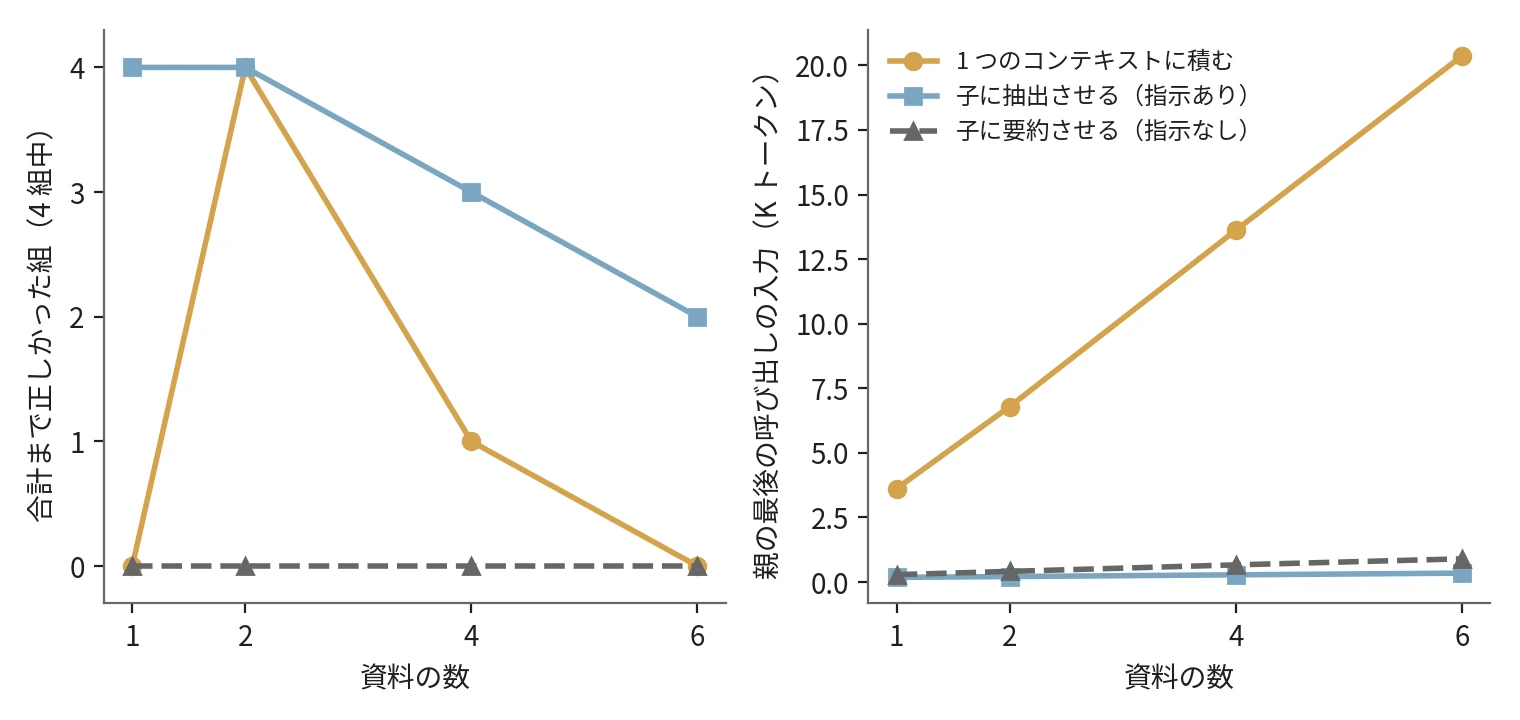
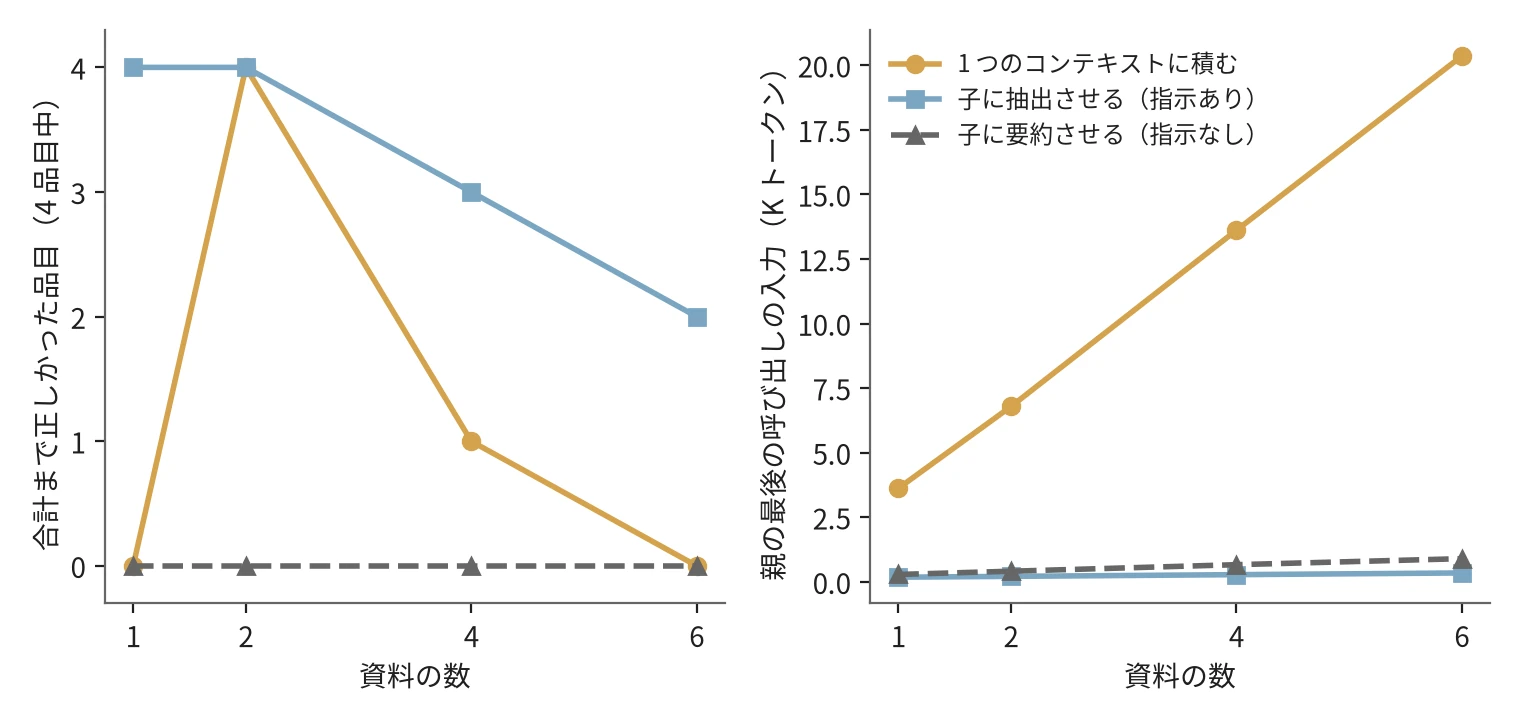
docs(notes): replace the bare 組 in the subagent note and its figure
Claude-Session: https://claude.ai/code/session_01YUxqeZKPbCLCF82LgM8vBK

diff --git a/content/notes/generative-ai/subagent/figures.py b/content/notes/generative-ai/subagent/figures.py
@@ -198,7 +198,7 @@ def results_figure():
                      marker=m, lw=2, label=label)
         c = [sum(ctx[(mode, k)]) / len(ctx[(mode, k)]) / 1000 for k in ks]
         axes[1].plot(ks, c, color=color, ls=ls, marker=m, lw=2, label=label)
-    axes[0].set_ylabel("合計まで正しかった組（4 組中）")
+    axes[0].set_ylabel("合計まで正しかった品目（4 品目中）")
     axes[0].set_ylim(-0.3, 4.3)
     axes[0].set_yticks(range(5))
     axes[0].set_xticks(ks)

diff --git a/content/notes/generative-ai/subagent/index.md b/content/notes/generative-ai/subagent/index.md
@@ -128,9 +128,9 @@ r = chat([{"role": "system", "content": PARENT_SYSTEM}, {"role": "user", "conten
 
 `chat()` は、Ollama の `/api/chat` を 1 回呼び、入力と出力のトークン数と時間を返す関数です。どの呼び出しにも先頭に別の ID を入れ、前の呼び出しの[プロンプトキャッシュ](../kv-cache/)を使わせていません。
 
-以下が、4 組の平均と件数です。左は最後の行の合計まで正しく答えた組の数、右は親が最後に答えを書いた呼び出しの入力の長さです。
+以下が、4 組の平均と件数です。左は最後の行の合計まで正しく答えた品目の数、右は親が最後に答えを書いた呼び出しの入力の長さです。
 
-{{< figure src="images/subagent_results.webp" alt="左のグラフは、資料が 1・2・4・6 個の時に合計まで正しかった組の数（4 組中）。1 つのコンテキストに積む方式は 0・4・1・0、子に抽出させる方式は 4・4・3・2、子に要約させる方式は全て 0。右のグラフは親の最後の呼び出しの入力の長さ。1 つのコンテキストに積む方式は資料 1 個で約 3.6K、6 個で約 20.4K トークンまで伸びる。子の 2 つの方式は 6 個でも 0.35K と 0.9K にとどまる" caption="合計まで正しかった組の数と、親の最後の入力の長さ（qwen3:8b、2026-11-11）" align="center" >}}
+{{< figure src="images/subagent_results.webp" alt="左のグラフは、資料が 1・2・4・6 個の時に合計まで正しかった品目の数（4 品目中）。1 つのコンテキストに積む方式は 0・4・1・0、子に抽出させる方式は 4・4・3・2、子に要約させる方式は全て 0。右のグラフは親の最後の呼び出しの入力の長さ。1 つのコンテキストに積む方式は資料 1 個で約 3.6K、6 個で約 20.4K トークンまで伸びる。子の 2 つの方式は 6 個でも 0.35K と 0.9K にとどまる" caption="合計まで正しかった品目の数と、親の最後の入力の長さ（qwen3:8b、2026-11-11）" align="center" >}}
 
 支店ごとの行に書いた数は、1 つのコンテキストに積む方式でも全て正しく抜き出せました。資料 6 個・約 20K トークンの入力でも、支店の行で前月の実績や予測の数を書いたものはありません。差が出たのは、その数を足した最後の合計の行です。
 
